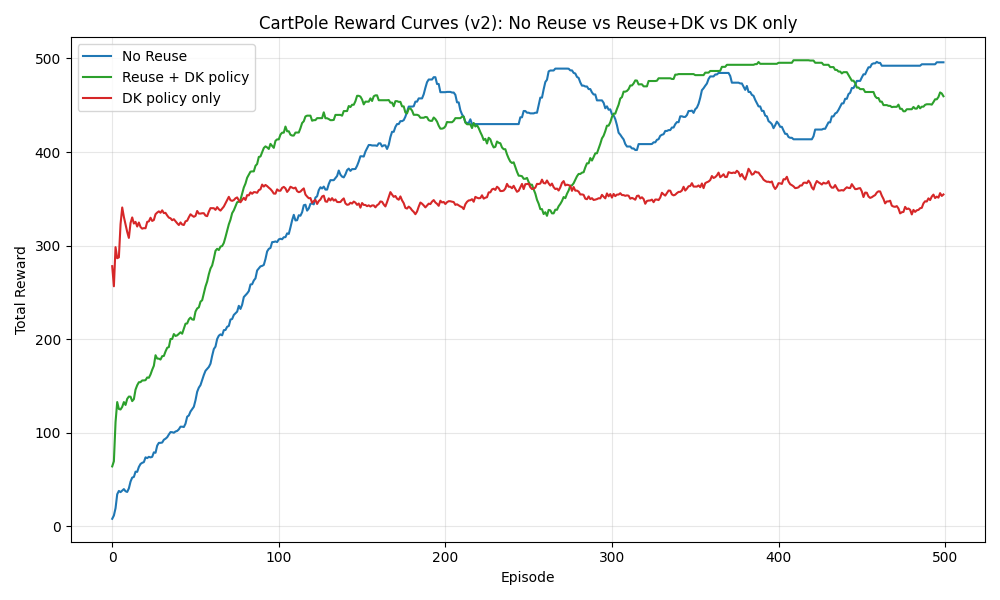
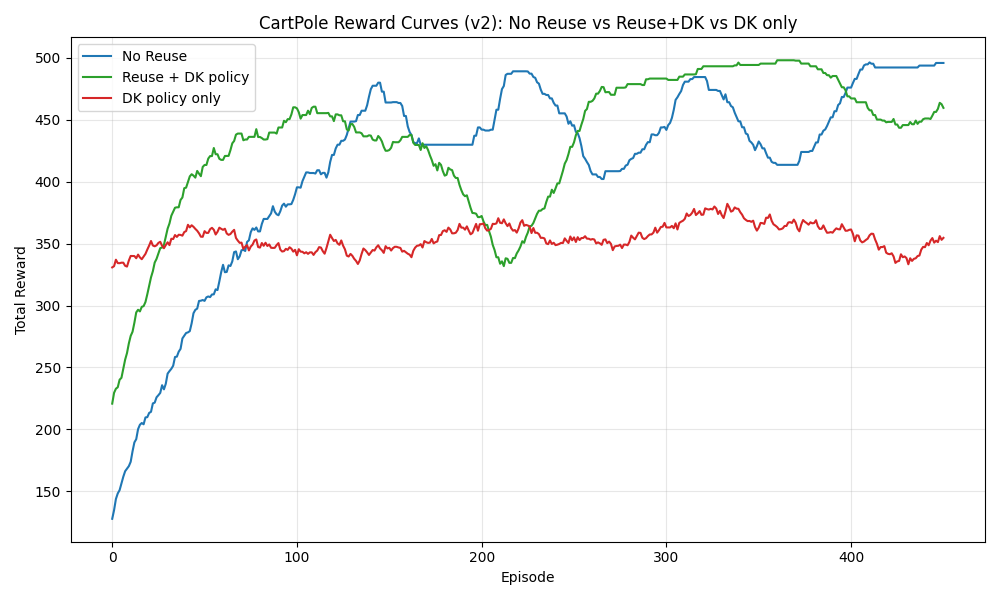
adding results

diff --git a/train_v2.py b/train_v2.py
@@ -22,13 +22,15 @@ from utils import set_seed, reset_env
 
 
 def moving_average(values, window: int = 20):
-    """Compute moving average for visualization."""
+    """Compute moving average using only full windows."""
     if window <= 1:
         return values
+
     out = []
-    for idx in range(len(values)):
-        start = max(0, idx - window + 1)
-        out.append(sum(values[start:idx + 1]) / (idx - start + 1))
+    for idx in range(window - 1, len(values)):
+        start = idx - window + 1
+        out.append(sum(values[start:idx + 1]) / window)
+
     return out
 
 
